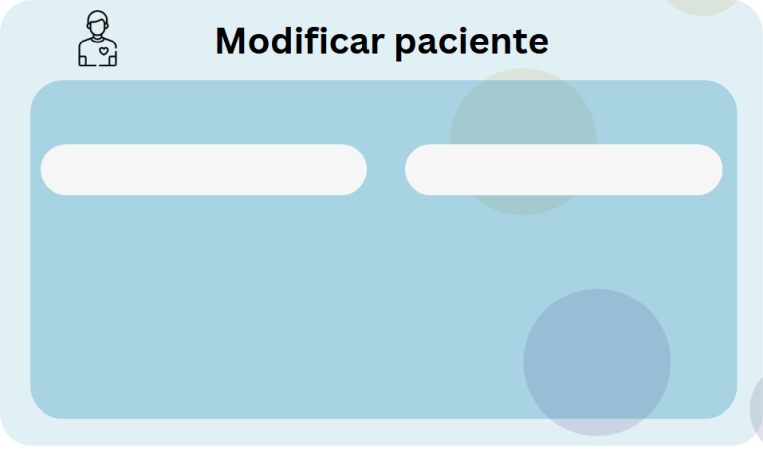
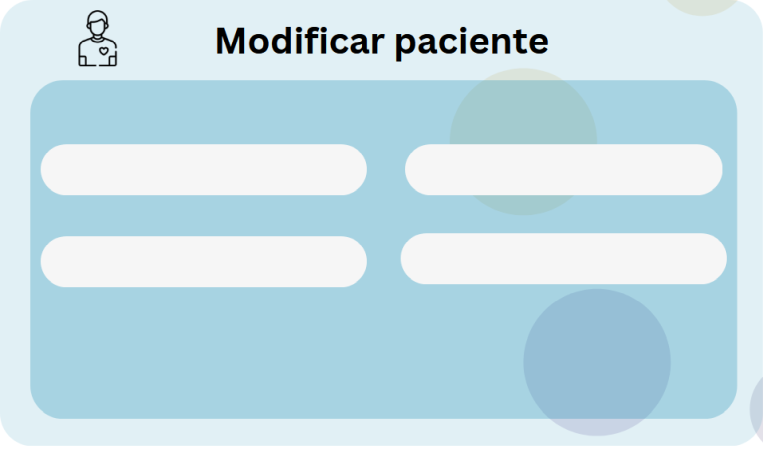
modificarPacientes funcionalidad ok

Changed region(s): [[0.5125, 0.4989, 0.9646, 0.6548], [0.0301, 0.4989, 0.4823, 0.6548]]

diff --git a/dentiapp/src/Vista/ModificarPacienteDialog.java b/dentiapp/src/Vista/ModificarPacienteDialog.java
@@ -3,17 +3,39 @@ package Vista;
 import java.awt.BorderLayout;
 import java.awt.FlowLayout;
 
+import javax.swing.DefaultComboBoxModel;
 import javax.swing.ImageIcon;
 import javax.swing.JButton;
 import javax.swing.JDialog;
 import javax.swing.JPanel;
 import javax.swing.border.EmptyBorder;
 import javax.swing.JLabel;
+import javax.swing.JOptionPane;
+import javax.swing.JComboBox;
+import javax.swing.JTextField;
+import java.awt.Color;
+import javax.swing.border.MatteBorder;
+
+import Controlador.ControladorSQL;
+
+import java.awt.Font;
+import java.awt.event.ActionEvent;
+import java.awt.event.ActionListener;
+import java.awt.event.KeyAdapter;
+import java.awt.event.KeyEvent;
+import java.sql.SQLException;
+import java.util.ArrayList;
+import java.util.List;
 
 public class ModificarPacienteDialog extends JDialog {
 
 	private static final long serialVersionUID = 1L;
 	private final JPanel contentPanel = new JPanel();
+	private JTextField txtNombreBuscar;
+	private ControladorSQL con = new ControladorSQL();
+	private DefaultComboBoxModel modeloDatos = new DefaultComboBoxModel();
+	private JTextField txtNombre;
+	private JTextField txtDni;
 
 	/**
 	 * Launch the application.
@@ -34,7 +56,7 @@ public class ModificarPacienteDialog extends JDialog {
 	 * Create the dialog.
 	 */
 	public ModificarPacienteDialog() {
-		setLocationRelativeTo(null);	
+		setLocationRelativeTo(null);
 		setResizable(false);
 		setUndecorated(true);
 		setBounds(100, 100, 758, 445);
@@ -42,11 +64,145 @@ public class ModificarPacienteDialog extends JDialog {
 		contentPanel.setBorder(new EmptyBorder(5, 5, 5, 5));
 		getContentPane().add(contentPanel, BorderLayout.CENTER);
 		contentPanel.setLayout(null);
-		
+
+		JButton btnCancelar = new JButton("Cancelar");
+		btnCancelar.addActionListener(new ActionListener() {
+			public void actionPerformed(ActionEvent e) {
+				dispose();
+			}
+		});
+		btnCancelar.setBounds(490, 398, 109, 36);
+		contentPanel.add(btnCancelar);
+
+		JLabel lblDni = new JLabel("Modificar DNI");
+		lblDni.setFont(new Font("Tahoma", Font.PLAIN, 14));
+		lblDni.setBounds(419, 207, 96, 18);
+		contentPanel.add(lblDni);
+
+		JLabel lblModNom = new JLabel("Modificar Nombre");
+		lblModNom.setFont(new Font("Tahoma", Font.PLAIN, 14));
+		lblModNom.setBounds(59, 210, 114, 18);
+		contentPanel.add(lblModNom);
+
+		txtDni = new JTextField();
+		txtDni.setColumns(10);
+		txtDni.setBorder(new MatteBorder(0, 0, 1, 0, (Color) new Color(0, 0, 0)));
+		txtDni.setBackground(new Color(246, 246, 246));
+		txtDni.setBounds(418, 236, 291, 46);
+		contentPanel.add(txtDni);
+
+		txtNombre = new JTextField();
+		txtNombre.setColumns(10);
+		txtNombre.setBorder(new MatteBorder(0, 0, 1, 0, (Color) new Color(0, 0, 0)));
+		txtNombre.setBackground(new Color(246, 246, 246));
+		txtNombre.setBounds(59, 239, 291, 46);
+		contentPanel.add(txtNombre);
+
+		JLabel lblNombre = new JLabel("Buscar Nombre");
+		lblNombre.setFont(new Font("Tahoma", Font.PLAIN, 14));
+		lblNombre.setBounds(419, 117, 96, 18);
+		contentPanel.add(lblNombre);
+
+		JLabel lblPaciente = new JLabel("Paciente Seleccionado:");
+		lblPaciente.setFont(new Font("Tahoma", Font.PLAIN, 14));
+		lblPaciente.setBounds(59, 117, 156, 18);
+		contentPanel.add(lblPaciente);
+
+		txtNombreBuscar = new JTextField();
+		txtNombreBuscar.setColumns(10);
+		txtNombreBuscar.setBorder(new MatteBorder(0, 0, 1, 0, (Color) new Color(0, 0, 0)));
+		txtNombreBuscar.setBackground(new Color(246, 246, 246));
+		txtNombreBuscar.setBounds(419, 146, 291, 46);
+		contentPanel.add(txtNombreBuscar);
+
+		JComboBox cmbPaciente = new JComboBox();
+		cmbPaciente.setBounds(59, 146, 286, 48);
+		contentPanel.add(cmbPaciente);
+
+		cmbPaciente.setModel(rellenarDatos("paciente", "nombre", modeloDatos));
+		txtNombreBuscar.addKeyListener(new KeyAdapter() {
+			@Override
+			public void keyReleased(KeyEvent e) {
+
+				cmbPaciente.setModel(rellenarDatos("paciente", "nombre", modeloDatos));
+				String textoBusqueda = txtNombreBuscar.getText().toLowerCase();
+
+				// Filtrar los elementos del combo que coincidan con el texto de búsqueda
+
+				List<String> elementosFiltrados = new ArrayList<>();
+				for (int i = 0; i < cmbPaciente.getItemCount(); i++) {
+					if (cmbPaciente.getItemAt(i).toString().toLowerCase().contains(textoBusqueda)) {
+						elementosFiltrados.add(cmbPaciente.getItemAt(i).toString());
+					}
+				}
+
+				// Actualizar los elementos del combo con los resultados filtrados
+
+				cmbPaciente.setModel(new DefaultComboBoxModel<>(elementosFiltrados.toArray(new String[0])));
+				cmbPaciente.setPopupVisible(true);
+			}
+		});
+
+		JButton btnAceptar = new JButton("Aceptar");
+		btnAceptar.setBounds(609, 398, 109, 36);
+		contentPanel.add(btnAceptar);
+		btnAceptar.addActionListener(new ActionListener() {
+			public void actionPerformed(ActionEvent e) {
+				String idpaciente;
+				try {
+					String nombre = "", dni = "";
+					idpaciente = con.selectWhere("paciente", "idpaciente", "dni",
+							con.selectWhere("paciente", "dni", "nombre", cmbPaciente.getSelectedItem().toString()));
+					
+					con.modificarPaciente(idpaciente, nombre, dni);
+					JOptionPane.showMessageDialog(null, "Paciente Modificado con Exito",
+							"Paciente Modificado", JOptionPane.WARNING_MESSAGE,new ImageIcon(CrearDoctorDialog.class.getResource("/fotos/iconoOk.png")));
+				} catch (SQLException e1) {
+					// TODO Auto-generated catch block
+					JOptionPane.showMessageDialog(null, "Error al modificar Paciente - Los datos introducidos no son correctos.\n Asegurese de que el nombre y el DNI es correcto",
+							"Error al modificar paciente", JOptionPane.WARNING_MESSAGE,new ImageIcon(CrearDoctorDialog.class.getResource("/fotos/iconoNo.png")));
+					e1.printStackTrace();
+				}
+			}
+		});
+
+		ActionListener listener = new ActionListener() {
+			@Override
+			public void actionPerformed(ActionEvent e) {
+				// Aquí se ejecuta el código cuando se selecciona un item
+				try {
+					JComboBox comboBox = (JComboBox) e.getSource();
+					String itemSeleccionado = (String) comboBox.getSelectedItem().toString();
+
+					txtNombre.setText(itemSeleccionado);
+					txtDni.setText(con.selectWhere("paciente", "dni", "nombre", itemSeleccionado));
+				} catch (SQLException e1) {
+					// TODO Auto-generated catch block
+					e1.printStackTrace();
+				}
+			}
+		};
+
+		// Añadir el ActionListener al JComboBox
+		cmbPaciente.addActionListener(listener);
+
 		JLabel lblFondo = new JLabel("");
 		lblFondo.setIcon(new ImageIcon(ModificarPacienteDialog.class.getResource("/fotos/mod_paciente.PNG")));
 		lblFondo.setBounds(0, 0, 763, 449);
 		contentPanel.add(lblFondo);
 	}
 
+	public DefaultComboBoxModel rellenarDatos(String nombreTabla, String campo,
+			DefaultComboBoxModel<String> comboDatos) {
+		try {
+
+			comboDatos = (DefaultComboBoxModel<String>) con.rellenarComboBox(nombreTabla, campo);
+
+		} catch (SQLException e1) {
+			// TODO Auto-generated catch block
+			e1.printStackTrace();
+		}
+
+		return comboDatos;
+	}
 }

diff --git a/dentiapp/src/Vista/ModificarDoctorDialog.java b/dentiapp/src/Vista/ModificarDoctorDialog.java
@@ -69,6 +69,26 @@ public class ModificarDoctorDialog extends JDialog {
 		getContentPane().add(contentPanel, BorderLayout.CENTER);
 		contentPanel.setLayout(null);
 		
+		JLabel lblDoctor = new JLabel("Doctor Seleccionado:");
+		lblDoctor.setFont(new Font("Tahoma", Font.PLAIN, 14));
+		lblDoctor.setBounds(58, 118, 156, 18);
+		contentPanel.add(lblDoctor);
+		
+		JLabel lblEspecialidad = new JLabel("Especialidad");
+		lblEspecialidad.setFont(new Font("Tahoma", Font.PLAIN, 14));
+		lblEspecialidad.setBounds(419, 245, 80, 18);
+		contentPanel.add(lblEspecialidad);
+		
+		JLabel lblModNom = new JLabel("Modificar Nombre");
+		lblModNom.setFont(new Font("Tahoma", Font.PLAIN, 14));
+		lblModNom.setBounds(58, 245, 114, 18);
+		contentPanel.add(lblModNom);
+		
+		JLabel lblNombre = new JLabel("Buscar Nombre");
+		lblNombre.setFont(new Font("Tahoma", Font.PLAIN, 14));
+		lblNombre.setBounds(419, 118, 96, 18);
+		contentPanel.add(lblNombre);
+		
 		JComboBox cmbDr = new JComboBox();
 		cmbDr.setBounds(58, 274, 55, 50);
 		contentPanel.add(cmbDr);
@@ -178,6 +198,4 @@ public class ModificarDoctorDialog extends JDialog {
 
 		return comboDatos;
 	}
-	
-	
 }

diff --git a/dentiapp/src/Controlador/ControladorSQL.java b/dentiapp/src/Controlador/ControladorSQL.java
@@ -535,5 +535,11 @@ public class ControladorSQL {
 		System.out.println(consulta);
 		cn.ejecutarIDU(consulta);
 	}
+	
+	public void modificarPaciente(String idpaciente, String nombre, String dni) throws SQLException {
+		String consulta = "UPDATE paciente SET nombre ='" + nombre + "', dni ='" + dni +"' WHERE idpaciente = "+ idpaciente;
+		System.out.println(consulta);
+		//cn.ejecutarIDU(consulta);
+	}
 
 }
